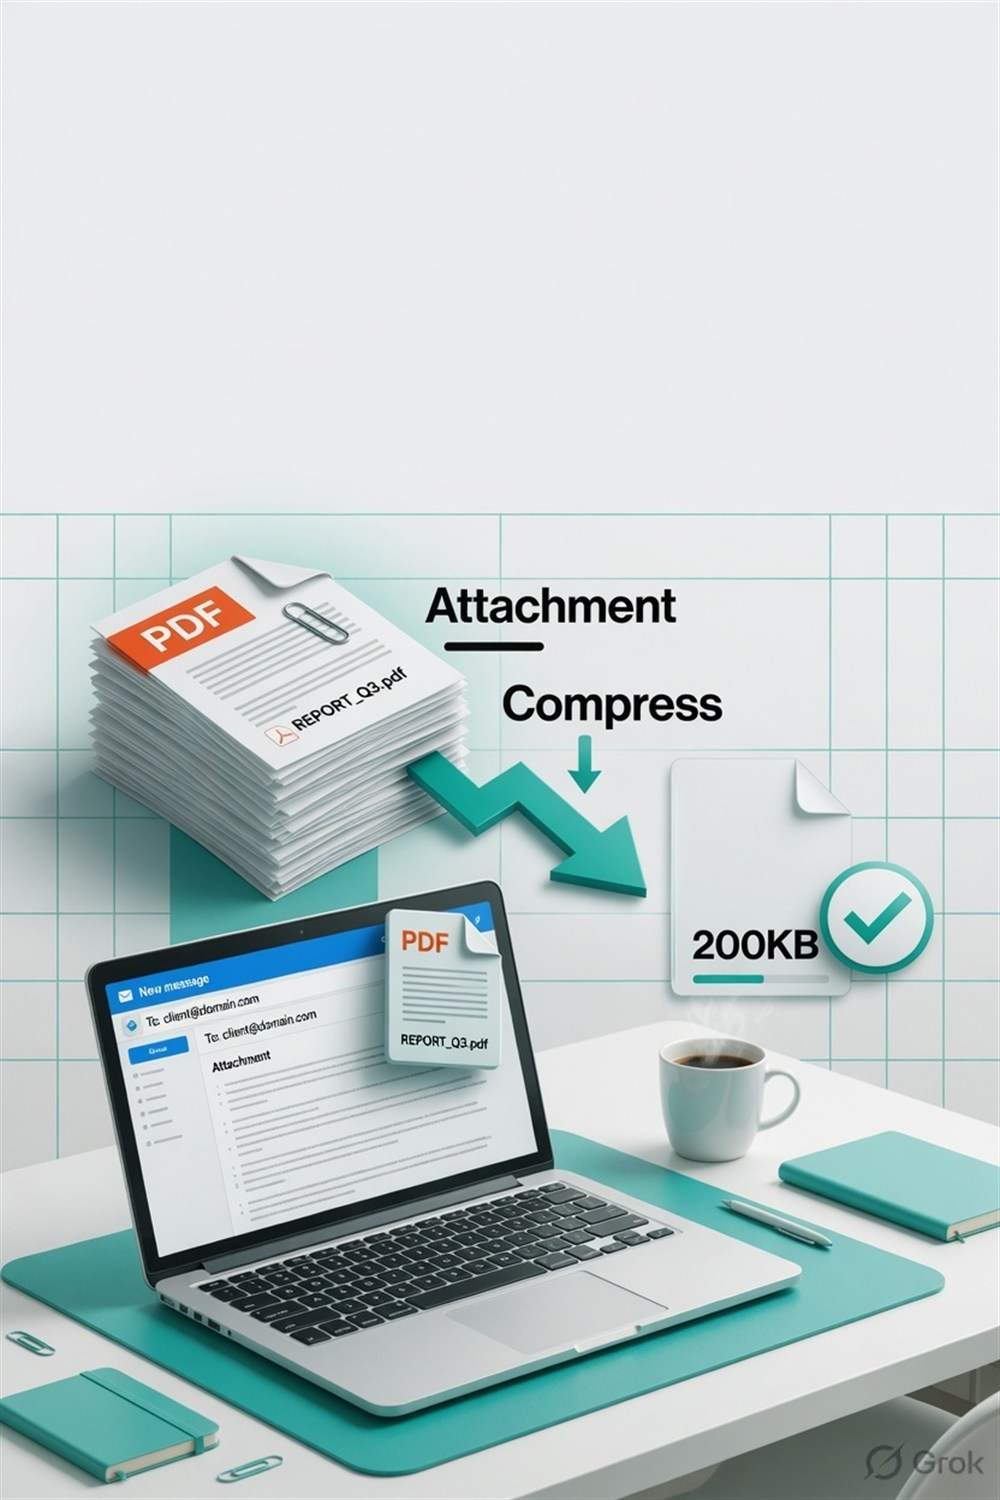
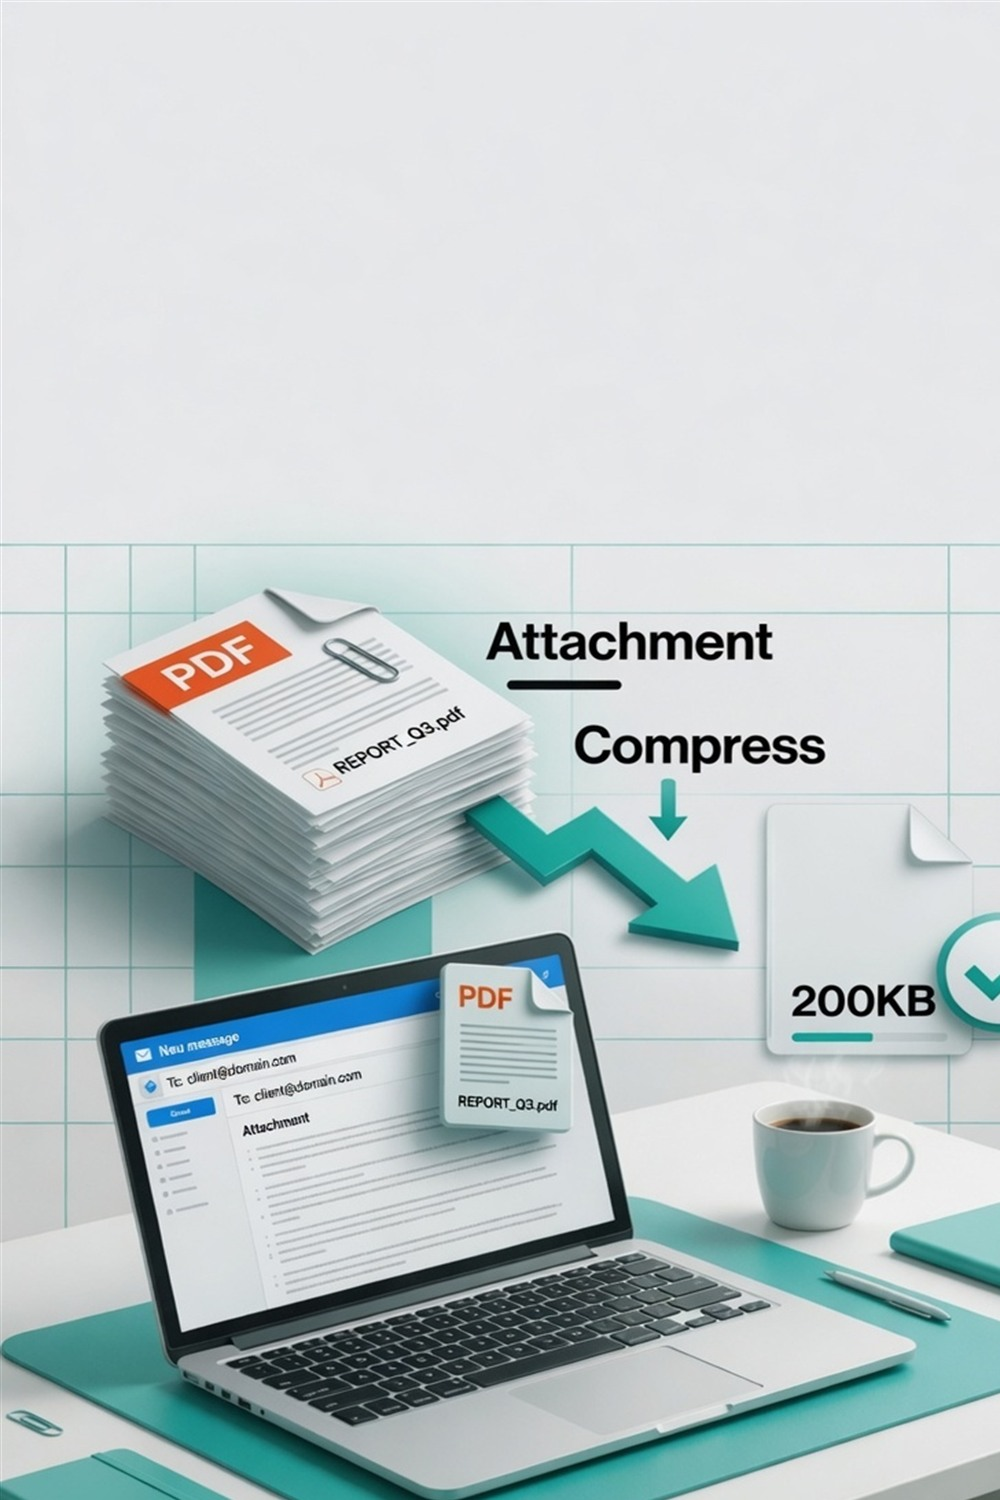
fix(blog): full-width posts, clickable cite URLs, remove image watermarks
Remove TOC sidebar for wider reading layout. Make cite-ready and bare
URLs clickable. Strip Grok watermarks from recent hero and Pinterest images.

diff --git a/src/lib/content-processor.tsx b/src/lib/content-processor.tsx
@@ -125,8 +125,60 @@ export function processContent(content: string): React.ReactNode[] {
         }
     };
 
+    const linkClassName =
+        "text-primary hover:text-primary/80 font-medium underline underline-offset-2 transition-colors break-all";
+
+    const renderHref = (url: string, label: string, key: string) => {
+        const isInternal = url.startsWith('/');
+        if (isInternal) {
+            return (
+                <Link key={key} href={url} className={linkClassName}>
+                    {label}
+                </Link>
+            );
+        }
+        const isSameSite =
+            url.startsWith('https://www.pdfpixels.com') ||
+            url.startsWith('https://pdfpixels.com') ||
+            url.startsWith('http://www.pdfpixels.com') ||
+            url.startsWith('http://pdfpixels.com');
+        return (
+            <a
+                key={key}
+                href={url}
+                target={isSameSite ? undefined : '_blank'}
+                rel={isSameSite ? undefined : 'noopener noreferrer'}
+                className={linkClassName}
+            >
+                {label}
+            </a>
+        );
+    };
+
+    /** Turn bare http(s) URLs in plain text into clickable anchors. */
+    const linkifyBareUrls = (text: string, keyPrefix: string): React.ReactNode[] => {
+        const urlPattern = /(https?:\/\/[^\s<>\[\]()`'",.]+[^\s<>\[\]()`'",.!?;:])/g;
+        const nodes: React.ReactNode[] = [];
+        let lastIndex = 0;
+        let match: RegExpExecArray | null;
+        let i = 0;
+        while ((match = urlPattern.exec(text)) !== null) {
+            if (match.index > lastIndex) {
+                nodes.push(text.slice(lastIndex, match.index));
+            }
+            const url = match[0];
+            nodes.push(renderHref(url, url, `${keyPrefix}-url-${i++}`));
+            lastIndex = match.index + url.length;
+        }
+        if (lastIndex < text.length) {
+            nodes.push(text.slice(lastIndex));
+        }
+        return nodes.length > 0 ? nodes : [text];
+    };
+
     const parseInlineMarkdown = (text: string, keyPrefix: string, autoLink: boolean = false): React.ReactNode[] => {
-        const pattern = /(\*\*[^*]+\*\*)|(\[[^\]]+\]\([^)]+\))|(!\[[^\]]*\]\([^)]+\))/g;
+        // Images, markdown links, bold, and inline `code` (often cite-ready URLs)
+        const pattern = /(\*\*[^*]+\*\*)|(\[[^\]]+\]\([^)]+\))|(!\[[^\]]*\]\([^)]+\))|(`[^`]+`)/g;
         const parts = text.split(pattern).filter((p) => p !== undefined && p !== '');
         const nodes: React.ReactNode[] = [];
 
@@ -170,39 +222,30 @@ export function processContent(content: string): React.ReactNode[] {
             if (part.startsWith('[') && part.includes('](') && part.endsWith(')')) {
                 const match = part.match(/^\[([^\]]+)\]\(([^)]+)\)$/);
                 if (match) {
-                    const label = match[1];
-                    const url = match[2];
-                    const isInternal = url.startsWith('/');
-
-                    if (isInternal) {
-                        nodes.push(
-                            <Link
-                                key={key}
-                                href={url}
-                                className="text-primary hover:text-primary/80 font-medium underline underline-offset-2 transition-colors"
-                            >
-                                {label}
-                            </Link>
-                        );
-                        return;
-                    }
-
-                    nodes.push(
-                        <a
-                            key={key}
-                            href={url}
-                            target="_blank"
-                            rel="noopener noreferrer"
-                            className="text-primary hover:text-primary/80 font-medium underline underline-offset-2 transition-colors"
-                        >
-                            {label}
-                        </a>
-                    );
+                    nodes.push(renderHref(match[2], match[1], key));
                     return;
                 }
             }
 
-            // Plain text with auto-linking
+            // Inline code: `...` — if it's a URL, make it a clickable link
+            if (part.startsWith('`') && part.endsWith('`') && part.length > 2) {
+                const inner = part.slice(1, -1).trim();
+                if (/^https?:\/\//i.test(inner) || inner.startsWith('/')) {
+                    nodes.push(renderHref(inner, inner, key));
+                    return;
+                }
+                nodes.push(
+                    <code
+                        key={key}
+                        className="text-primary bg-primary/10 px-1.5 py-0.5 rounded-md text-sm font-mono break-all"
+                    >
+                        {inner}
+                    </code>
+                );
+                return;
+            }
+
+            // Plain text with keyword auto-linking + bare URL linkifying
             if (autoLink) {
                 let textSegments: (string | React.ReactNode)[] = [part];
 
@@ -226,7 +269,7 @@ export function processContent(content: string): React.ReactNode[] {
                             const matched = segment.slice(idx, idx + keyword.length);
                             const after = segment.slice(idx + keyword.length);
 
-                            if (before) newSegments.push(before);
+                            if (before) newSegments.push(...linkifyBareUrls(before, `${key}-b-${keyword}`));
                             newSegments.push(
                                 <Link
                                     key={`${key}-${keyword}`}
@@ -237,7 +280,7 @@ export function processContent(content: string): React.ReactNode[] {
                                     {matched}
                                 </Link>
                             );
-                            if (after) newSegments.push(after);
+                            if (after) newSegments.push(...linkifyBareUrls(after, `${key}-a-${keyword}`));
 
                             linkedKeywords.add(keyword);
                             foundInThisBlock = true;
@@ -247,9 +290,24 @@ export function processContent(content: string): React.ReactNode[] {
                     }
                     textSegments = newSegments;
                 }
-                nodes.push(...textSegments);
+
+                // Linkify remaining bare URLs in string segments
+                const finalSegments: React.ReactNode[] = [];
+                textSegments.forEach((segment, si) => {
+                    if (typeof segment === 'string') {
+                        finalSegments.push(...linkifyBareUrls(segment, `${key}-bare-${si}`));
+                    } else {
+                        finalSegments.push(segment);
+                    }
+                });
+                nodes.push(...finalSegments);
             } else {
-                nodes.push(part);
+                // Still linkify bare URLs even when keyword auto-link is off
+                if (typeof part === 'string' && /https?:\/\//i.test(part)) {
+                    nodes.push(...linkifyBareUrls(part, key));
+                } else {
+                    nodes.push(part);
+                }
             }
         });
 

diff --git a/src/config/blog.ts b/src/config/blog.ts
@@ -209,8 +209,8 @@ If you run a student blog, real-estate FAQ, or support center, link a real **ima
 
 Cite-ready URLs:
 
-- This guide: \`https://www.pdfpixels.com/blog/convert-jpg-to-pdf-online-no-software\`  
-- Tool: \`https://www.pdfpixels.com/tools/image-to-pdf\`  
+- This guide: [https://www.pdfpixels.com/blog/convert-jpg-to-pdf-online-no-software](https://www.pdfpixels.com/blog/convert-jpg-to-pdf-online-no-software)  
+- Tool: [https://www.pdfpixels.com/tools/image-to-pdf](https://www.pdfpixels.com/tools/image-to-pdf)  
 
 Forum and campus WhatsApp answers that paste a working free tool earn trust (and the occasional editorial link) because they solve the upload error — not because of a link scheme.
 
@@ -3107,7 +3107,7 @@ If you run a career blog, exam-prep site, or student newsletter, a short "how to
 
 Linking to a useful guide (this one or our [200KB compression guide](/blog/compress-pdf-to-200kb-guide)) is the kind of resource page that earns **editorial backlinks** because it solves a concrete upload error — not because someone begged for a link exchange. Forums, Reddit threads, and Quora answers about "file too large 1MB" are also fair places to share the free tool when you're actually helping, not spamming.
 
-If you cite us from your site, use a descriptive URL: \`https://www.pdfpixels.com/blog/compress-pdf-under-1mb\` or the live tool at \`https://www.pdfpixels.com/tools/compress-pdf\`.
+If you cite us from your site, use a descriptive URL: [https://www.pdfpixels.com/blog/compress-pdf-under-1mb](https://www.pdfpixels.com/blog/compress-pdf-under-1mb) or the live tool at [https://www.pdfpixels.com/tools/compress-pdf](https://www.pdfpixels.com/tools/compress-pdf).
 
 ## Bottom line
 
@@ -3328,8 +3328,8 @@ If you publish job-prep or student content, a short section on **compress PDF to
 
 Useful resource URLs you can cite:
 
-- This guide: \`https://www.pdfpixels.com/blog/compress-pdf-to-200kb-email-attachment\`  
-- Live tool: \`https://www.pdfpixels.com/tools/compress-pdf\`  
+- This guide: [https://www.pdfpixels.com/blog/compress-pdf-to-200kb-email-attachment](https://www.pdfpixels.com/blog/compress-pdf-to-200kb-email-attachment)  
+- Live tool: [https://www.pdfpixels.com/tools/compress-pdf](https://www.pdfpixels.com/tools/compress-pdf)  
 - Related deep dive: [200KB complete guide](/blog/compress-pdf-to-200kb-guide)
 
 Editorial links earn when they fix a real error message — forums, Reddit “file too large 200KB” threads, Quora, and campus WhatsApp FAQs — not from spammy link swaps.
@@ -3554,8 +3554,8 @@ If you write tech tips, job-search advice, or client onboarding emails, a short 
 
 Cite-ready URLs:
 
-- This guide: \`https://www.pdfpixels.com/blog/reduce-pdf-size-gmail-25mb-fix\`  
-- Tool: \`https://www.pdfpixels.com/tools/compress-pdf\`  
+- This guide: [https://www.pdfpixels.com/blog/reduce-pdf-size-gmail-25mb-fix](https://www.pdfpixels.com/blog/reduce-pdf-size-gmail-25mb-fix)  
+- Tool: [https://www.pdfpixels.com/tools/compress-pdf](https://www.pdfpixels.com/tools/compress-pdf)  
 - Related: [reduce PDF size for email](/blog/reduce-pdf-size-for-email)
 
 Helpful on forums and campus groups when someone posts the red Gmail error — share the fix, not spam.

diff --git a/src/app/blog/[slug]/page.tsx b/src/app/blog/[slug]/page.tsx
@@ -306,19 +306,19 @@ export default async function BlogPostPage({
                     </div>
                 )}
 
-                {/* Main Content */}
-                <div className="container mx-auto px-4 lg:px-8 py-12 lg:py-16">
-                    <div className="max-w-5xl mx-auto">
+                {/* Main Content — full width (no sidebar) for easier reading */}
+                <div className="container mx-auto px-4 sm:px-6 lg:px-10 py-12 lg:py-16">
+                    <div className="max-w-4xl mx-auto">
                         <ProcessContentWithToc content={post.content}>
                             {/* Article Content */}
                             <div className="prose prose-lg prose-slate dark:prose-invert max-w-none
                                 prose-headings:font-bold prose-headings:tracking-tight prose-headings:text-foreground
-                                prose-h2:text-2xl prose-h2:mt-14 prose-h2:mb-6 prose-h2:leading-tight
+                                prose-h2:text-2xl md:prose-h2:text-[1.75rem] prose-h2:mt-14 prose-h2:mb-6 prose-h2:leading-tight
                                 prose-h2:before:content-[''] prose-h2:before:block prose-h2:before:w-16 prose-h2:before:h-1 prose-h2:before:rounded-full prose-h2:before:mb-4
                                 prose-h2:before:bg-gradient-to-r prose-h2:before:from-primary prose-h2:before:to-violet-500
                                 prose-h3:text-xl prose-h3:mt-10 prose-h3:mb-4
-                                prose-p:text-muted-foreground prose-p:leading-[1.85] prose-p:text-[1.08rem]
-                                prose-a:text-primary prose-a:font-semibold prose-a:no-underline hover:prose-a:underline
+                                prose-p:text-muted-foreground prose-p:leading-[1.9] prose-p:text-[1.1rem]
+                                prose-a:text-primary prose-a:font-semibold prose-a:underline prose-a:underline-offset-2 hover:prose-a:text-primary/80
                                 prose-strong:text-foreground prose-strong:font-bold
                                 prose-ul:my-6 prose-ol:my-6
                                 prose-li:text-muted-foreground prose-li:leading-relaxed

diff --git a/src/components/blog/ProcessContentWithToc.tsx b/src/components/blog/ProcessContentWithToc.tsx
@@ -1,11 +1,11 @@
 'use client';
 
 import { useEffect, useRef } from 'react';
-import { TableOfContents } from './TableOfContents';
 
 /**
- * ProcessContentWithToc wraps the server-rendered article content and
- * injects IDs into h2 headings so the TableOfContents can link to them.
+ * Wraps server-rendered article content and injects IDs into h2 headings
+ * for deep links / accessibility. Full-width layout (no sidebar) so readers
+ * get more space for the article body.
  */
 interface ProcessContentWithTocProps {
     content: string;
@@ -35,15 +35,13 @@ export function ProcessContentWithToc({ content, children }: ProcessContentWithT
     }, [content]);
 
     return (
-        <div className="grid grid-cols-1 lg:grid-cols-[1fr_260px] gap-12">
-            <article ref={articleRef} itemScope itemType="https://schema.org/Article">
-                {children}
-            </article>
-            <aside className="hidden lg:block">
-                <div className="sticky top-24 bg-card/80 backdrop-blur-xl border border-border/60 rounded-2xl p-5 shadow-sm">
-                    <TableOfContents content={content} />
-                </div>
-            </aside>
-        </div>
+        <article
+            ref={articleRef}
+            itemScope
+            itemType="https://schema.org/Article"
+            className="w-full max-w-none"
+        >
+            {children}
+        </article>
     );
 }
